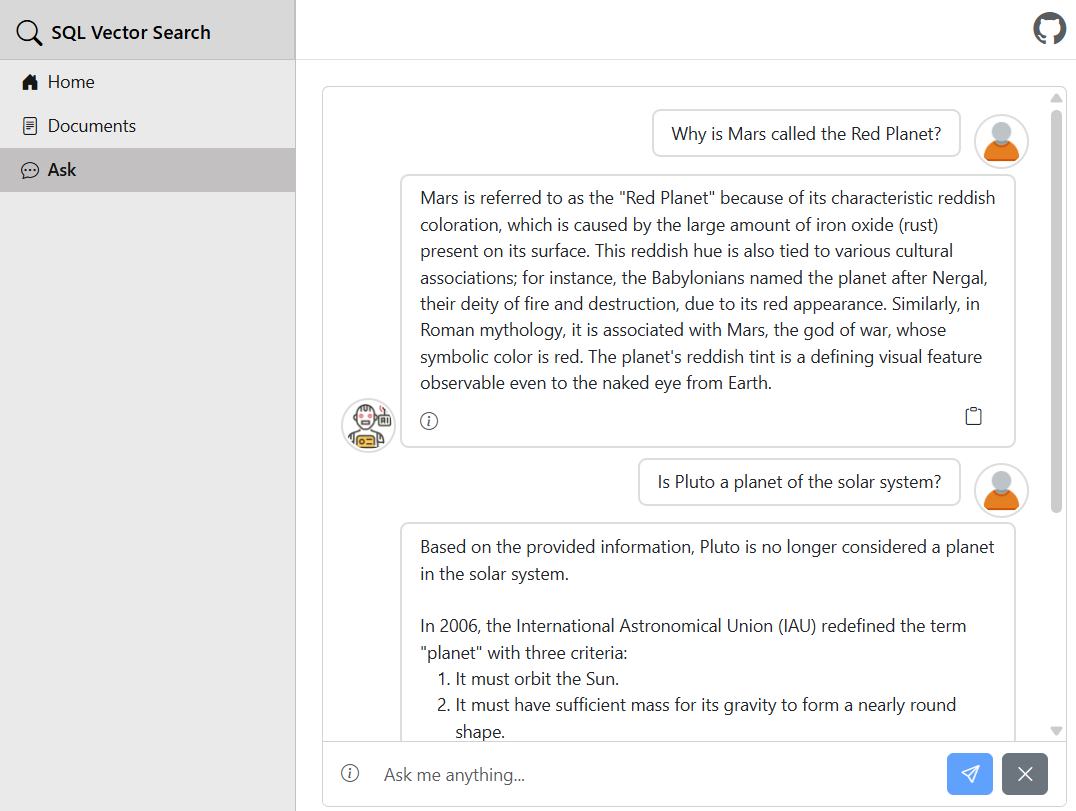
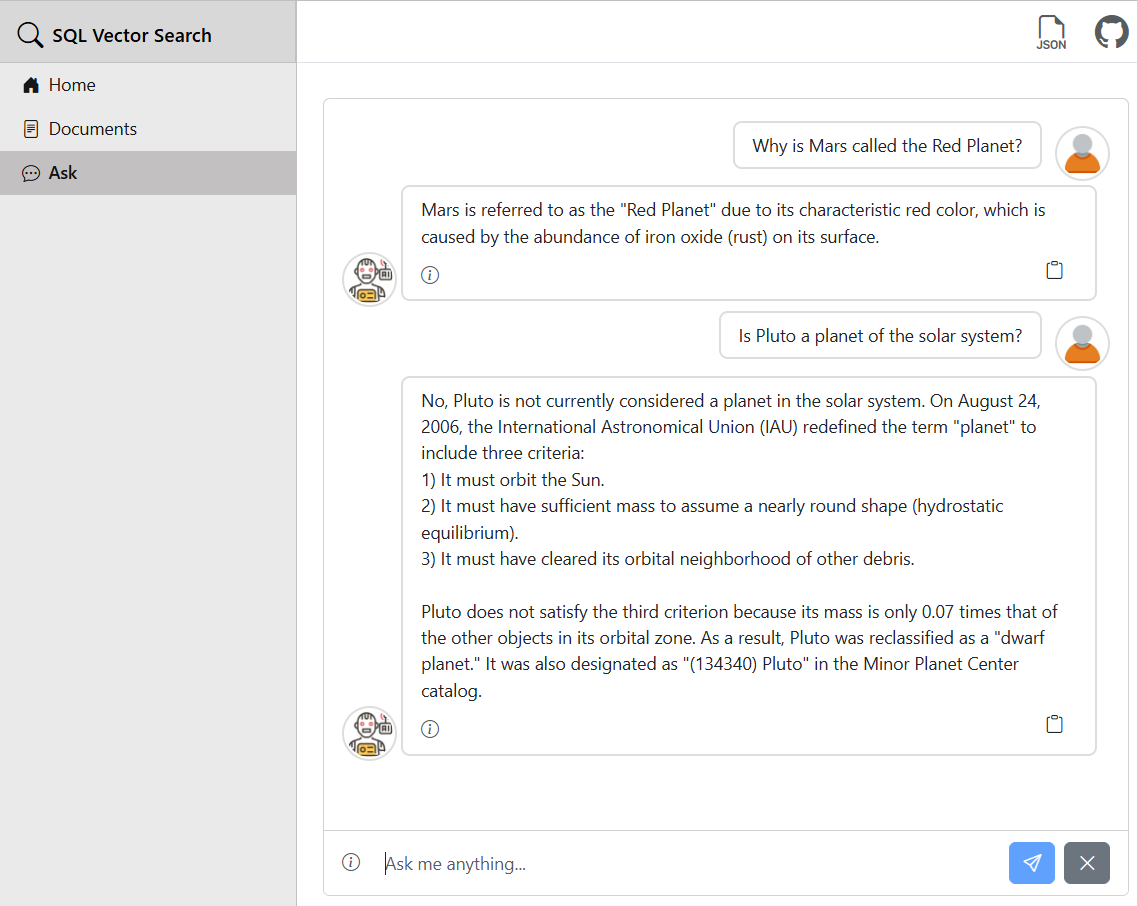
Remove footer and update card layout styles
- Removed the `FooterSection` from `MainLayout.razor` and its associated styles in `MainLayout.razor.css`.
- Added top margin to the card in `Ask.razor` for improved spacing.
- Increased height of `.card-body` in both default and media queries for better content display.
- Added CSS rules in `app.css` to reset margin and padding for `body` and `html`.
- Modified binary file `SqlDatabaseVectorSearch_WebApp.png`.

diff --git a/SqlDatabaseVectorSearch/Components/Layout/MainLayout.razor.css b/SqlDatabaseVectorSearch/Components/Layout/MainLayout.razor.css
@@ -1,20 +1,3 @@
-.footer-content {
-    display: flex;
-    justify-content: space-between;
-    align-items: center;
-    background-color: #f8f9fa;
-    border-top: 1px solid #dee2e6;
-}
-
-    .footer-content span {
-        font-size: 0.9rem;
-        color: #6c757d;
-    }
-
-    .footer-content .ms-auto {
-        margin-left: auto;
-    }
-
 #blazor-error-ui {
     color-scheme: light only;
     background: lightyellow;

diff --git a/SqlDatabaseVectorSearch/Components/Pages/Ask.razor.css b/SqlDatabaseVectorSearch/Components/Pages/Ask.razor.css
@@ -23,18 +23,18 @@ input[type="checkbox"] + label {
 
 .card-body {
     overflow: auto;
-    height: 490px;
+    height: 560px;
 }
 
 @media (min-width: 768px) {
     .card-body {
-        height: 595px;
+        height: 665px;
     }
 }
 
 @media (min-width: 2560px) {
     .card-body {
-        height: 950px;
+        height: 1020px;
     }
 }
 

diff --git a/SqlDatabaseVectorSearch/wwwroot/css/app.css b/SqlDatabaseVectorSearch/wwwroot/css/app.css
@@ -1,3 +1,9 @@
+body, html {
+    margin: 0;
+    padding: 0;
+    height: 100%;
+}
+
 :root {
     --bb-sidebar2-width: 270px;
     --bb-sidebar2-collapsed-width: 50px;
